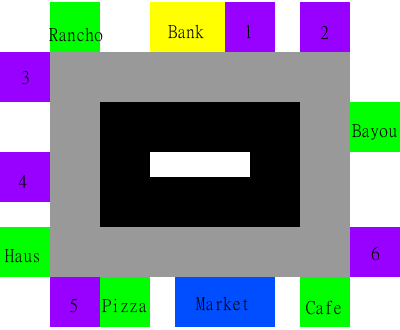
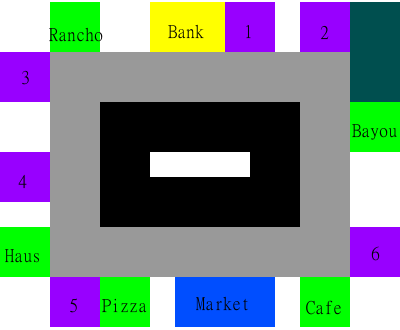
Added haunted mansion button and moved Apt2 over slightly.

Changed region(s): [[0.87, 0.0, 1.0, 0.3333]]

diff --git a/src/transportation/TransportationPanel.java b/src/transportation/TransportationPanel.java
@@ -68,7 +68,7 @@ public class TransportationPanel extends JPanel implements ActionListener, Mouse
     	buildings.add(new BuildingFinder(50,100,2,52,"Rancho"));
     	buildings.add(new BuildingFinder(150,225,2,52,"Bank"));
     	buildings.add(new BuildingFinder(225,275,2,52,"Apt1"));
-    	buildings.add(new BuildingFinder(325,375,2,52,"Apt2"));
+    	buildings.add(new BuildingFinder(300,350,2,52,"Apt2"));
     	buildings.add(new BuildingFinder(0,50,52,102,"Apt3"));
     	buildings.add(new BuildingFinder(0,50,152,202,"Apt4"));
     	buildings.add(new BuildingFinder(350,400,102,152,"Bayou"));
@@ -78,6 +78,7 @@ public class TransportationPanel extends JPanel implements ActionListener, Mouse
     	buildings.add(new BuildingFinder(100,150,277,327,"Pizza"));
     	buildings.add(new BuildingFinder(175,275,277,327,"Market"));
     	buildings.add(new BuildingFinder(300,350,277,327,"Cafe"));
+    	buildings.add(new BuildingFinder(305,400, 2, 102,"Mansion"));
     }
 	
 	@Override
